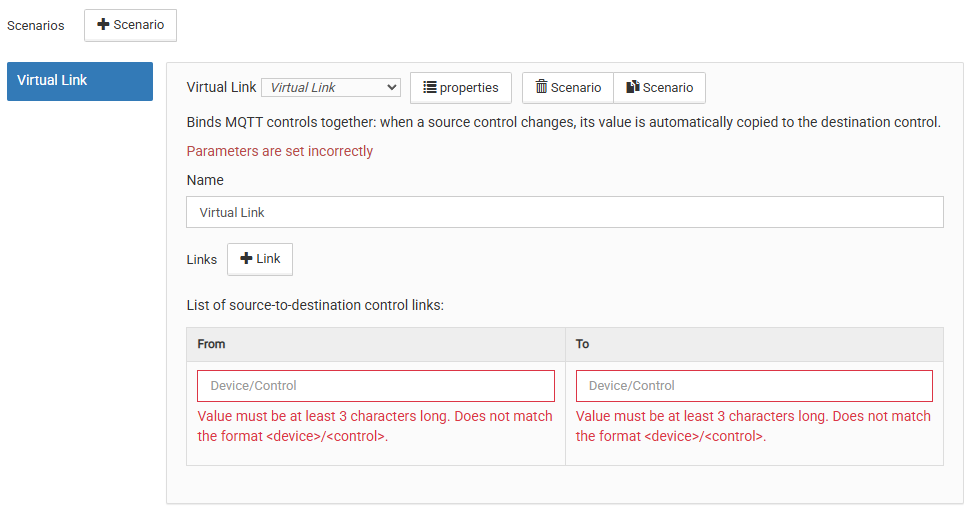
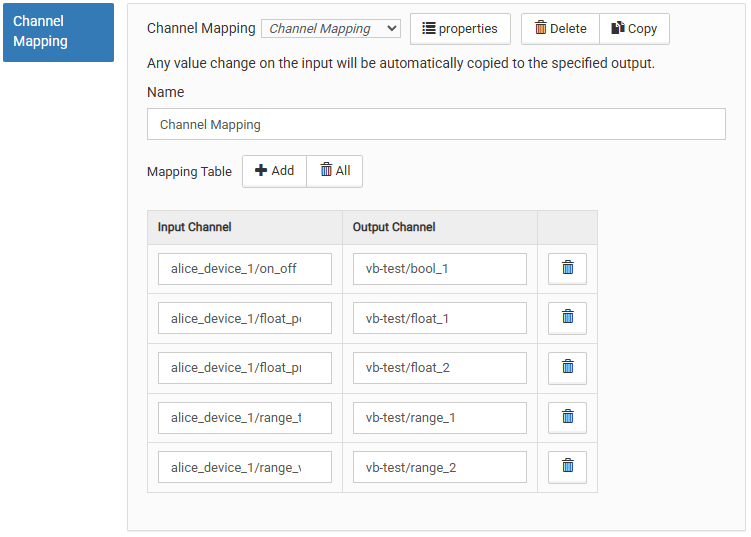
update text and img, fix schema

diff --git a/scenarios/channel-map/channel-map.mod.js b/scenarios/channel-map/channel-map.mod.js
@@ -1,6 +1,6 @@
 /**
  * @file channel-map.mod.js - ES5 module for wb-rules v2.38
- * @description Virtual Link scenario class that extends ScenarioBase.
+ * @description Channel Map scenario class that extends ScenarioBase.
  *   Copies values from mqttTopicInput MQTT controls to mqttTopicOutput controls.
  *   Uses a single whenChanged rule with a mqttTopicInput→mqttTopicOutputs lookup map.
  * @author Valerii Trofimov <valeriy.trofimov@wirenboard.com>
@@ -33,7 +33,7 @@ var log = new Logger(loggerFileLabel);
  */
 
 /**
- * Virtual Link scenario implementation
+ * Channel Map scenario implementation
  * @class ChannelMapScenario
  * @extends ScenarioBase
  */
@@ -283,7 +283,7 @@ function createRules(self, sourceMap) {
  */
 ChannelMapScenario.prototype.initSpecific =
   function (deviceTitle, cfg) {
-    log.debug('Start init virtual link scenario');
+    log.debug('Start init channel map scenario');
     log.setLabel(loggerFileLabel + '/' + this.idPrefix);
 
     var sourceMap = buildSourceMap(cfg.mqttTopicsLinks);
@@ -295,7 +295,7 @@ ChannelMapScenario.prototype.initSpecific =
 
       this.setState(ScenarioState.NORMAL);
       log.debug(
-        'Virtual link scenario initialized for device "{}"',
+        'Channel Map scenario initialized for device "{}"',
         deviceTitle
       );
     }

diff --git a/scenarios/channel-map/dev-note-arc42.md b/scenarios/channel-map/dev-note-arc42.md
@@ -1,10 +1,10 @@
-# Virtual Link — Архитектурная документация (ARC42)
+# Channel Map — Архитектурная документация (ARC42)
 
 ## 1. Введение и цели
 
 ### 1.1. Описание задачи
 
-Новый тип сценария **Virtual Link** (Виртуальная связка)
+Новый тип сценария **Channel Map** (Виртуальная связка)
 для контроллеров Wiren Board. Создаёт программные связи между
 MQTT-контролами: при изменении значения mqttTopicInput-контрола оно
 автоматически копируется в mqttTopicOutput-контрол.
@@ -72,7 +72,7 @@ MQTT-контролами: при изменении значения mqttTopicI
 ```
 [Пользователь] --(WebUI)--> [wb-mqtt-confed] --(JSON conf)--> [wb-rules]
                                                                     |
-                                                          [Virtual Link]
+                                                          [Channel Map]
                                                            /              \
                                                   [mqttTopicInput MQTT]    [mqttTopicOutput MQTT]
 ```

diff --git a/README.md b/README.md
@@ -11,7 +11,7 @@
 - [Расписание](scenarios/schedule/README.md)
 - [Астрономический таймер](scenarios/astronomical-timer/README.md)
 - [Периодический таймер](scenarios/periodic-timer/README.md)
-- [Виртуальная связка](scenarios/channel-map/README.md)
+- [Маппинг каналов](scenarios/channel-map/README.md)
 
 ## Установка
 
